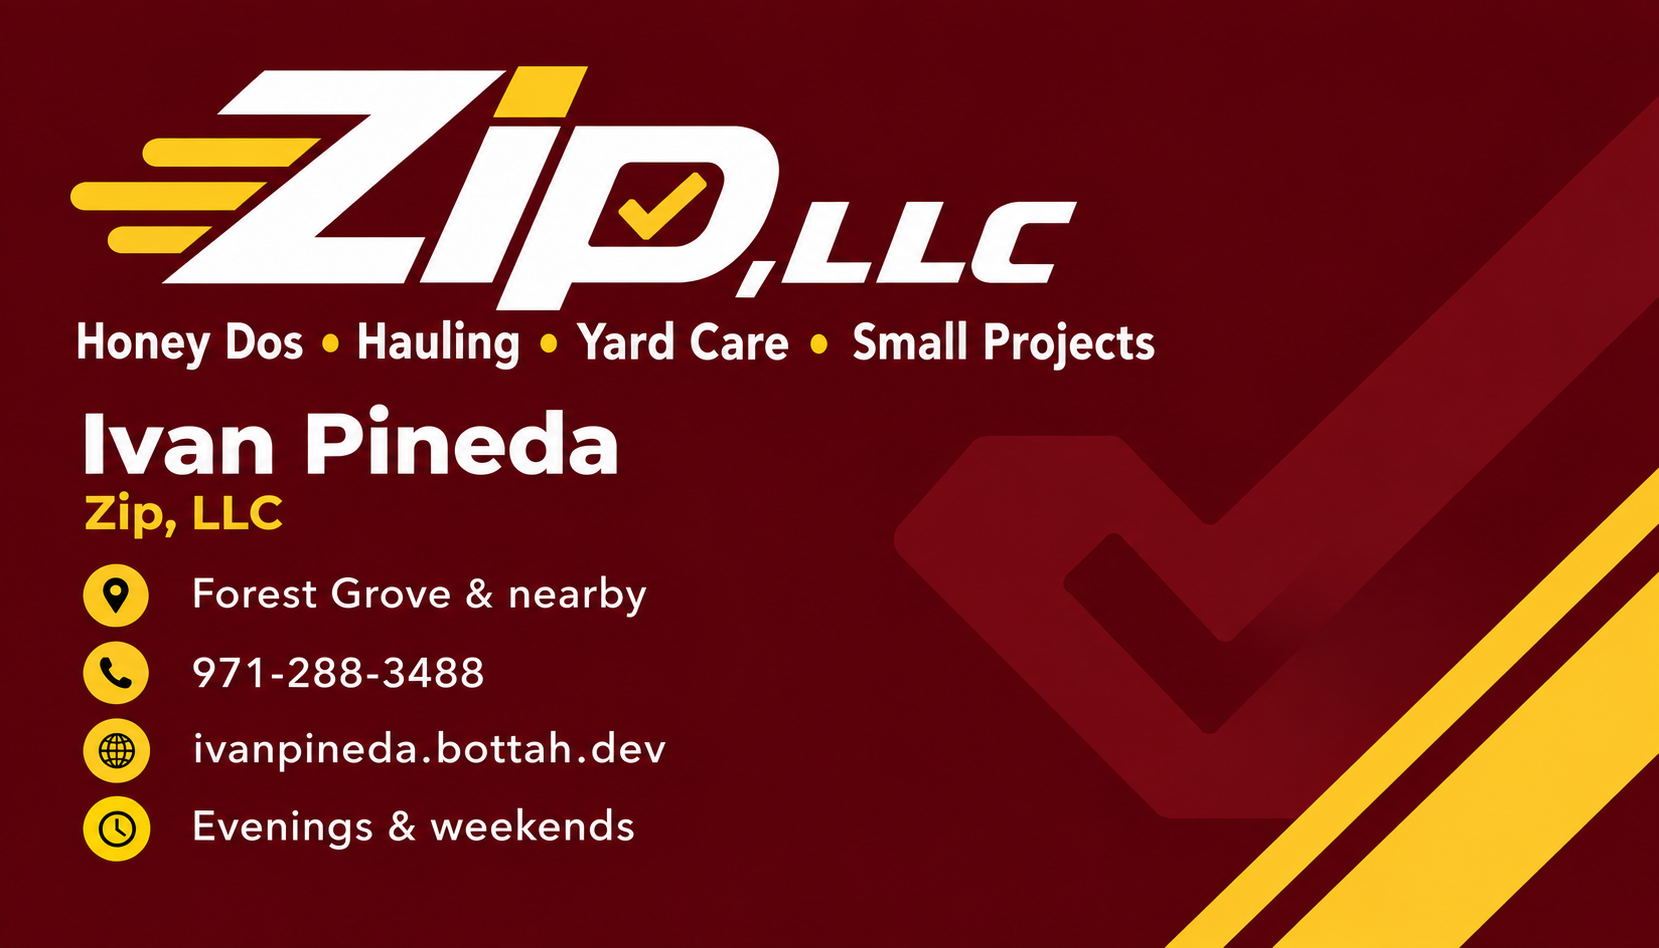
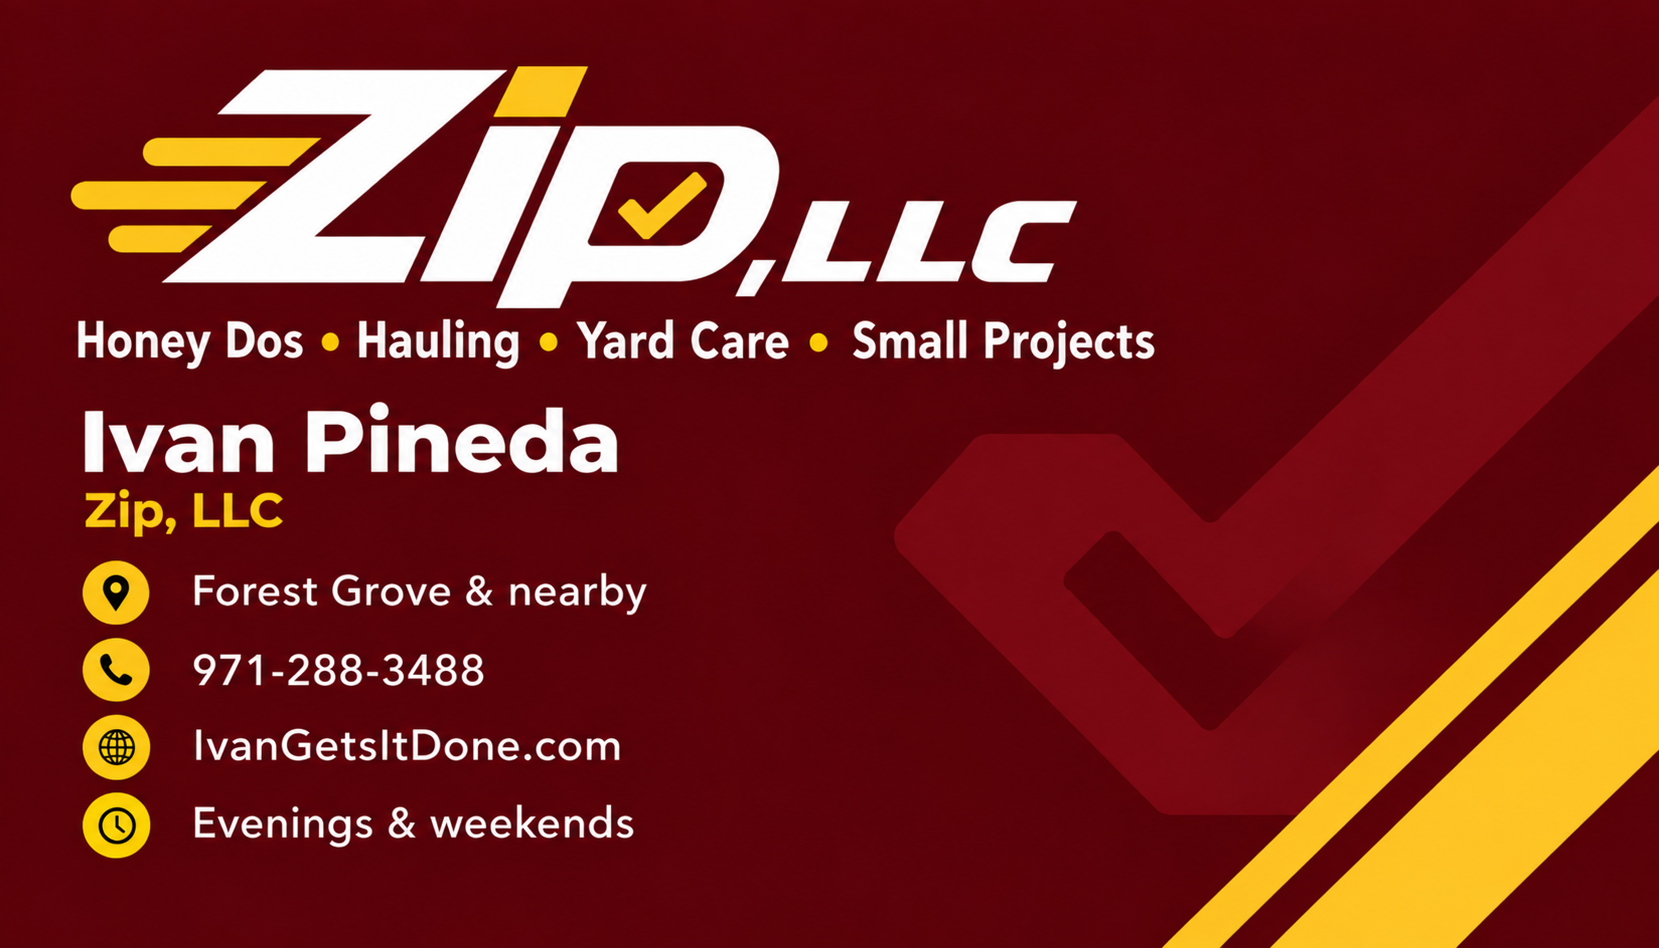
Swap in the new business card
The owner supplied new artwork, which prints IvanGetsItDone.com in place
of the bottah.dev address. Source, hash and alt text updated together.

The printed domain does not resolve yet: ivangetsitdone.com had no A, NS
or SOA records and Verisign RDAP returned 404 for it, so the card
advertises an address that goes nowhere and the name is still available
for anyone to take. Recorded in both READMEs.

diff --git a/README.md b/README.md
@@ -62,7 +62,8 @@ The owner supplied a logo and a business card. Originals are tracked in `content
 
 - **Logo.** The artwork carries an inner tagline that is illegible at header size, so the build paints it out with the badge colour before masking. The fill is bounded per row by the gold perimeter ring itself — the badge narrows towards the bottom, so a straight-sided rectangle clipped the ring on the lower rows — and the band, inset and fill colour are recorded as `caption_band` on the logo entry in the catalog. The ring search deliberately ignores the middle of the badge so the gold check mark in the wordmark cannot be mistaken for the perimeter. The supplied artwork is a circular badge on an opaque white square. `scripts/build_photos.py` measures the non-white bounding box, checks it is square within 2%, and masks it with a supersampled ellipse, so `/media/logo.webp` and `/media/logo.png` are transparent and sit cleanly on the page background. It appears in the header at 52px and doubles as the site icon (`/media/icon.png`, 180px, `rel="icon"` and `rel="apple-touch-icon"`).
 - **Business card** renders on the contact page from `/media/card.webp` (1400px wide). Its alt text carries the same details as the page text.
-- **Swap the card when Ivan picks a domain.** The printed card shows `ivanpineda.bottah.dev`. When the real domain is registered, replace `content/brand/business-card.png`, update the `sha256` in the catalog, and rebuild — the build fails on a hash mismatch, which is the intended tripwire.
+- **Business card, replaced 2026-09-18.** The owner supplied new artwork printing **IvanGetsItDone.com**; `content/brand/business-card.png` and the `sha256` and `alt` in the catalog were updated together and the build regenerated `/media/card.webp`. The build fails on a hash mismatch, which is the intended tripwire for any future swap.
+- **The printed domain does not resolve.** On 2026-09-18 `ivangetsitdone.com` had no A, NS or SOA records and Verisign RDAP returned 404 for it — it was not registered. The site still serves from `ivanpineda.bottah.dev`, and every canonical URL, the Caddy site address and the three test suites still point there. Register the domain, then point it at this droplet and change `canonical` in `app/main.py`, `SITE_ADDRESS`, and the default base URLs in the tests together; Caddy will issue the certificate on first request. Until then the card advertises an address that goes nowhere, and the name is available for anyone else to take.
 - Palette drawn from the logo: deep maroon `#5a0000` and athletic gold `#ffd800`. Maroon carries buttons, links-on-light and the eyebrow tint; gold is limited to focus rings on dark buttons and the rule beside the licensing note. Chrome stays warm-neutral (`--bg #f7f4f1`, `--line #e3dcd7`) so photographs dominate. All colours are CSS custom properties at the top of `frontend/style.css`; axe still reports no WCAG A/AA contrast violations.
 
 ## Navigation — rebuilt 2026-09-18

diff --git a/content/README.md b/content/README.md
@@ -25,7 +25,7 @@ The photo archive is published as Ivan's **work history**, not as an advertiseme
 
 ## Brand assets
 
-`brand/logo.png` and `brand/business-card.png` are the owner-supplied originals, tracked with hashes in the catalog and never served directly. The logo arrives as a circle on an opaque white square; the build masks it to a transparent badge. The card shows the current `ivanpineda.bottah.dev` address and must be replaced when a permanent domain is chosen.
+`brand/logo.png` and `brand/business-card.png` are the owner-supplied originals, tracked with hashes in the catalog and never served directly. The logo arrives as a circle on an opaque white square; the build masks it to a transparent badge. The card was replaced on 2026-09-18 with the owner's new artwork, which prints **IvanGetsItDone.com**. That domain was not registered when the card was swapped (Verisign RDAP returned 404, and the name had no A, NS or SOA records), and the site still serves from `ivanpineda.bottah.dev`, so the printed address does not reach this site yet.
 
 ## Rebuild
 
